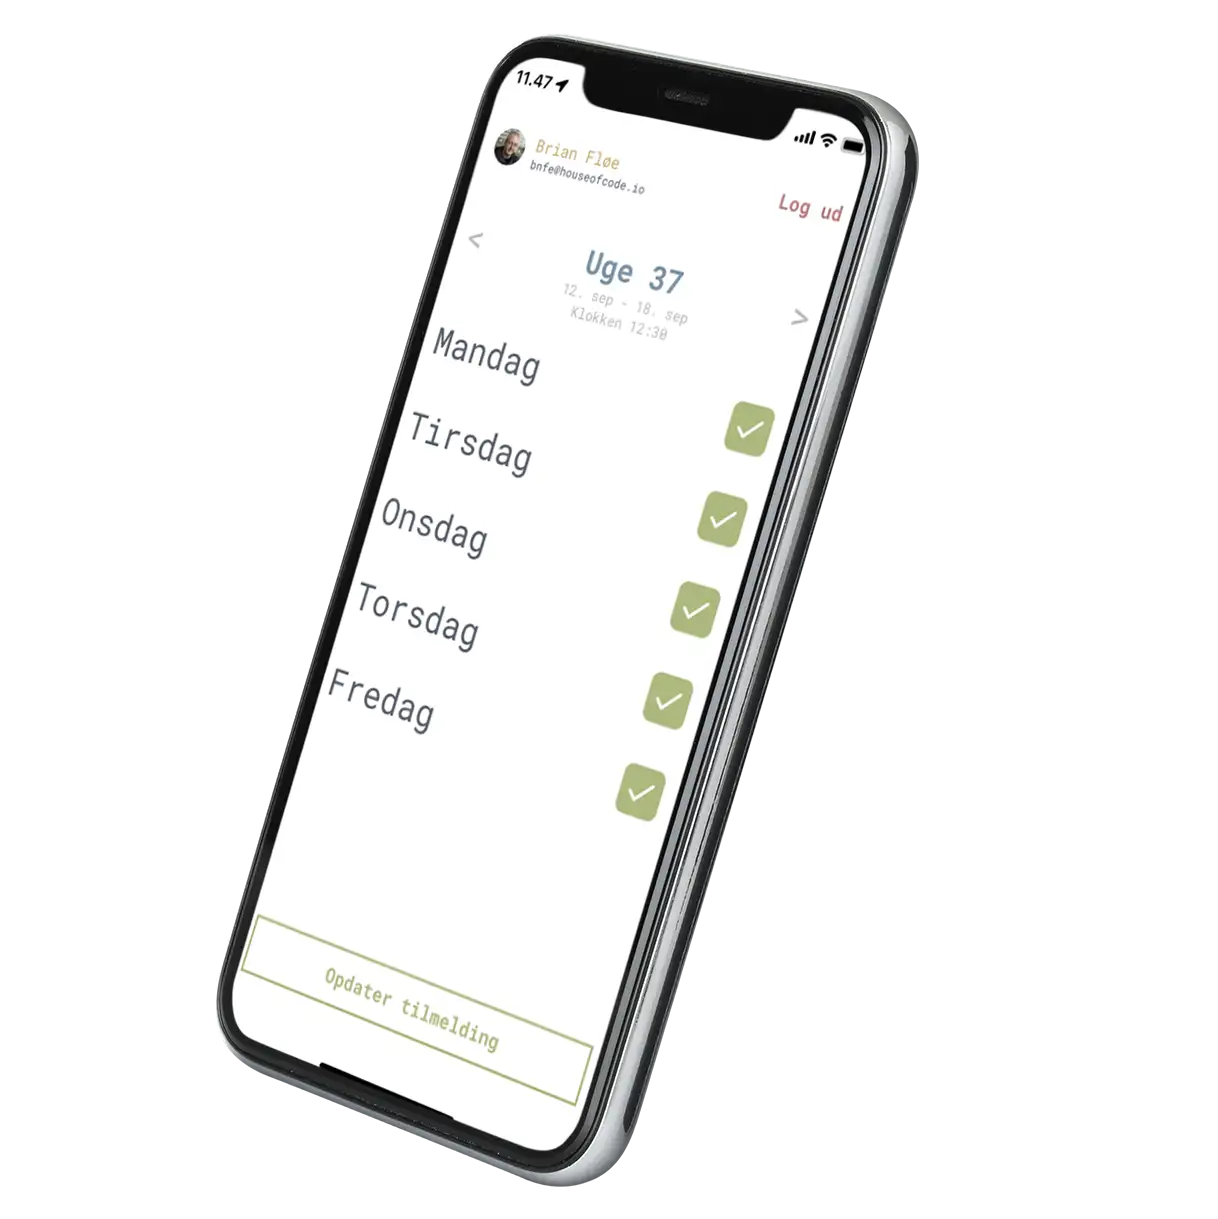
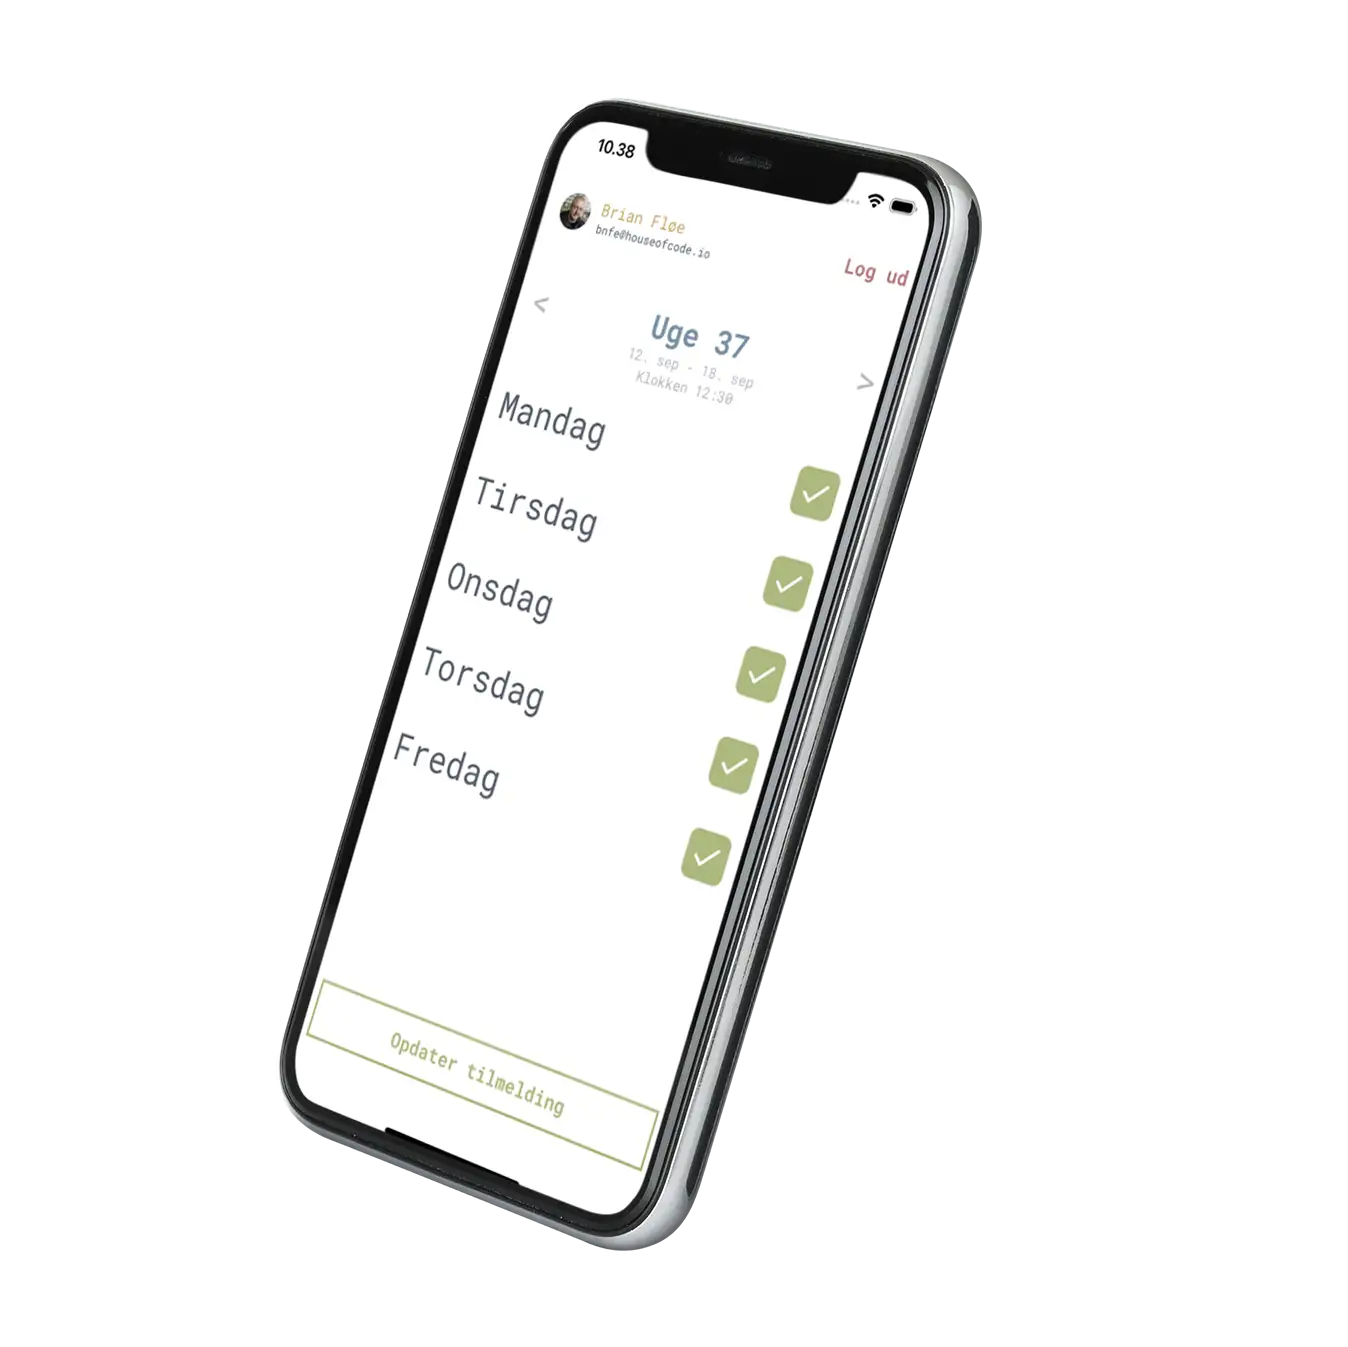
iphone hover billeder landing page

Changed region(s): [[0.156, 0.0312, 0.78, 0.9975]]

diff --git a/index.html b/index.html
@@ -49,14 +49,14 @@
             <section class="concept">
                 <h2>Gør køkkenarbejdet en brise i jeres virksomhed</h2>
                 <p>Frokost app og Frigo er designet med jeres virksomhed i centrum, så I kan optimere indkøb, reducere madspild og automatisere køleskabsordningen.</p>
-                <div>
+                <div class="hover-container">
                     <img id="img-hovering" src="img/frokostapp-iphone.webp" alt="Frokost app tilmelding">
                     <img id="img-hovering" src="img/frokostapp-iphone-2.webp" alt="Frokost app forside">
                 </div>
             </section>
             <section class="competencies">
                 <h2>Med Pentias kompetencer får I en komplet kantineløsning</h2>
-                <p>Pentia leverer innovative apps til virksomheder. Vi kombinerer strategi, design og teknologi for at skabe app-løsninger, der effektivt løser vores klienters udfordringer.<br> 
+                <p>Pentia leverer innovative apps til virksomheder. Vi kombinerer strategi, design og teknologi for at skabe app-løsninger, der effektivt løser vores klienters udfordringer.<br><br> 
                     Vores team af erfarne udviklere er dedikeret til at producere kvalitetsprodukter, der skaber værdi for vores klienter.</p>
             </section>
             <section class="clients">

diff --git a/frokostapp.html b/frokostapp.html
@@ -12,7 +12,6 @@
     <link rel="preconnect" href="https://fonts.googleapis.com">
     <link rel="preconnect" href="https://fonts.gstatic.com" crossorigin>
     <link href="https://fonts.googleapis.com/css2?family=Space+Grotesk:wght@300..700&display=swap" rel="stylesheet">
-    <link rel="stylesheet" href="https://cdnjs.cloudflare.com/ajax/libs/font-awesome/6.0.0-beta3/css/all.min.css">
 </head>
 <body>
     <header>
@@ -180,7 +179,7 @@
             <h2>Lad os tales ved!</h2>
             <div id="kontakt_link">
             <p>Kontakt os</p>
-            <img class="arrow" src="img/icon-arrow.svg" style="transform: rotate(-90deg);">
+            <img class="arrow" src="img/icon-arrow.svg" style="transform: rotate(-90deg);" alt="Arrow link">
             </div>
         </div>
         <section class="kontakt_info">

diff --git a/styles.css b/styles.css
@@ -10,6 +10,7 @@ main {
 
 header {
     padding-top: 100px;
+    overflow: hidden;
 }
 
 footer {
@@ -137,6 +138,32 @@ section {
     padding-right: 2rem;
 }
 
+.hover-container {
+    position: relative;
+    margin-top: 10%;
+    margin-bottom: 80%;
+}
+
+#img-hovering {
+    width: 90%;
+
+}
+
+.hover-container > #img-hovering:nth-child(1) {
+    position: absolute;
+    left: 50%;
+    transform: translateX(-35%);
+    z-index: 2;
+}
+
+.hover-container > #img-hovering:nth-child(2) {
+    position: absolute;
+    left: 50%;
+    width: 75%;
+    transform: translateX(-65%);
+    z-index: 1;
+    margin-left: -2rem;
+}
 
 /* every BODY hit the floor <- AKA BODY */
 
